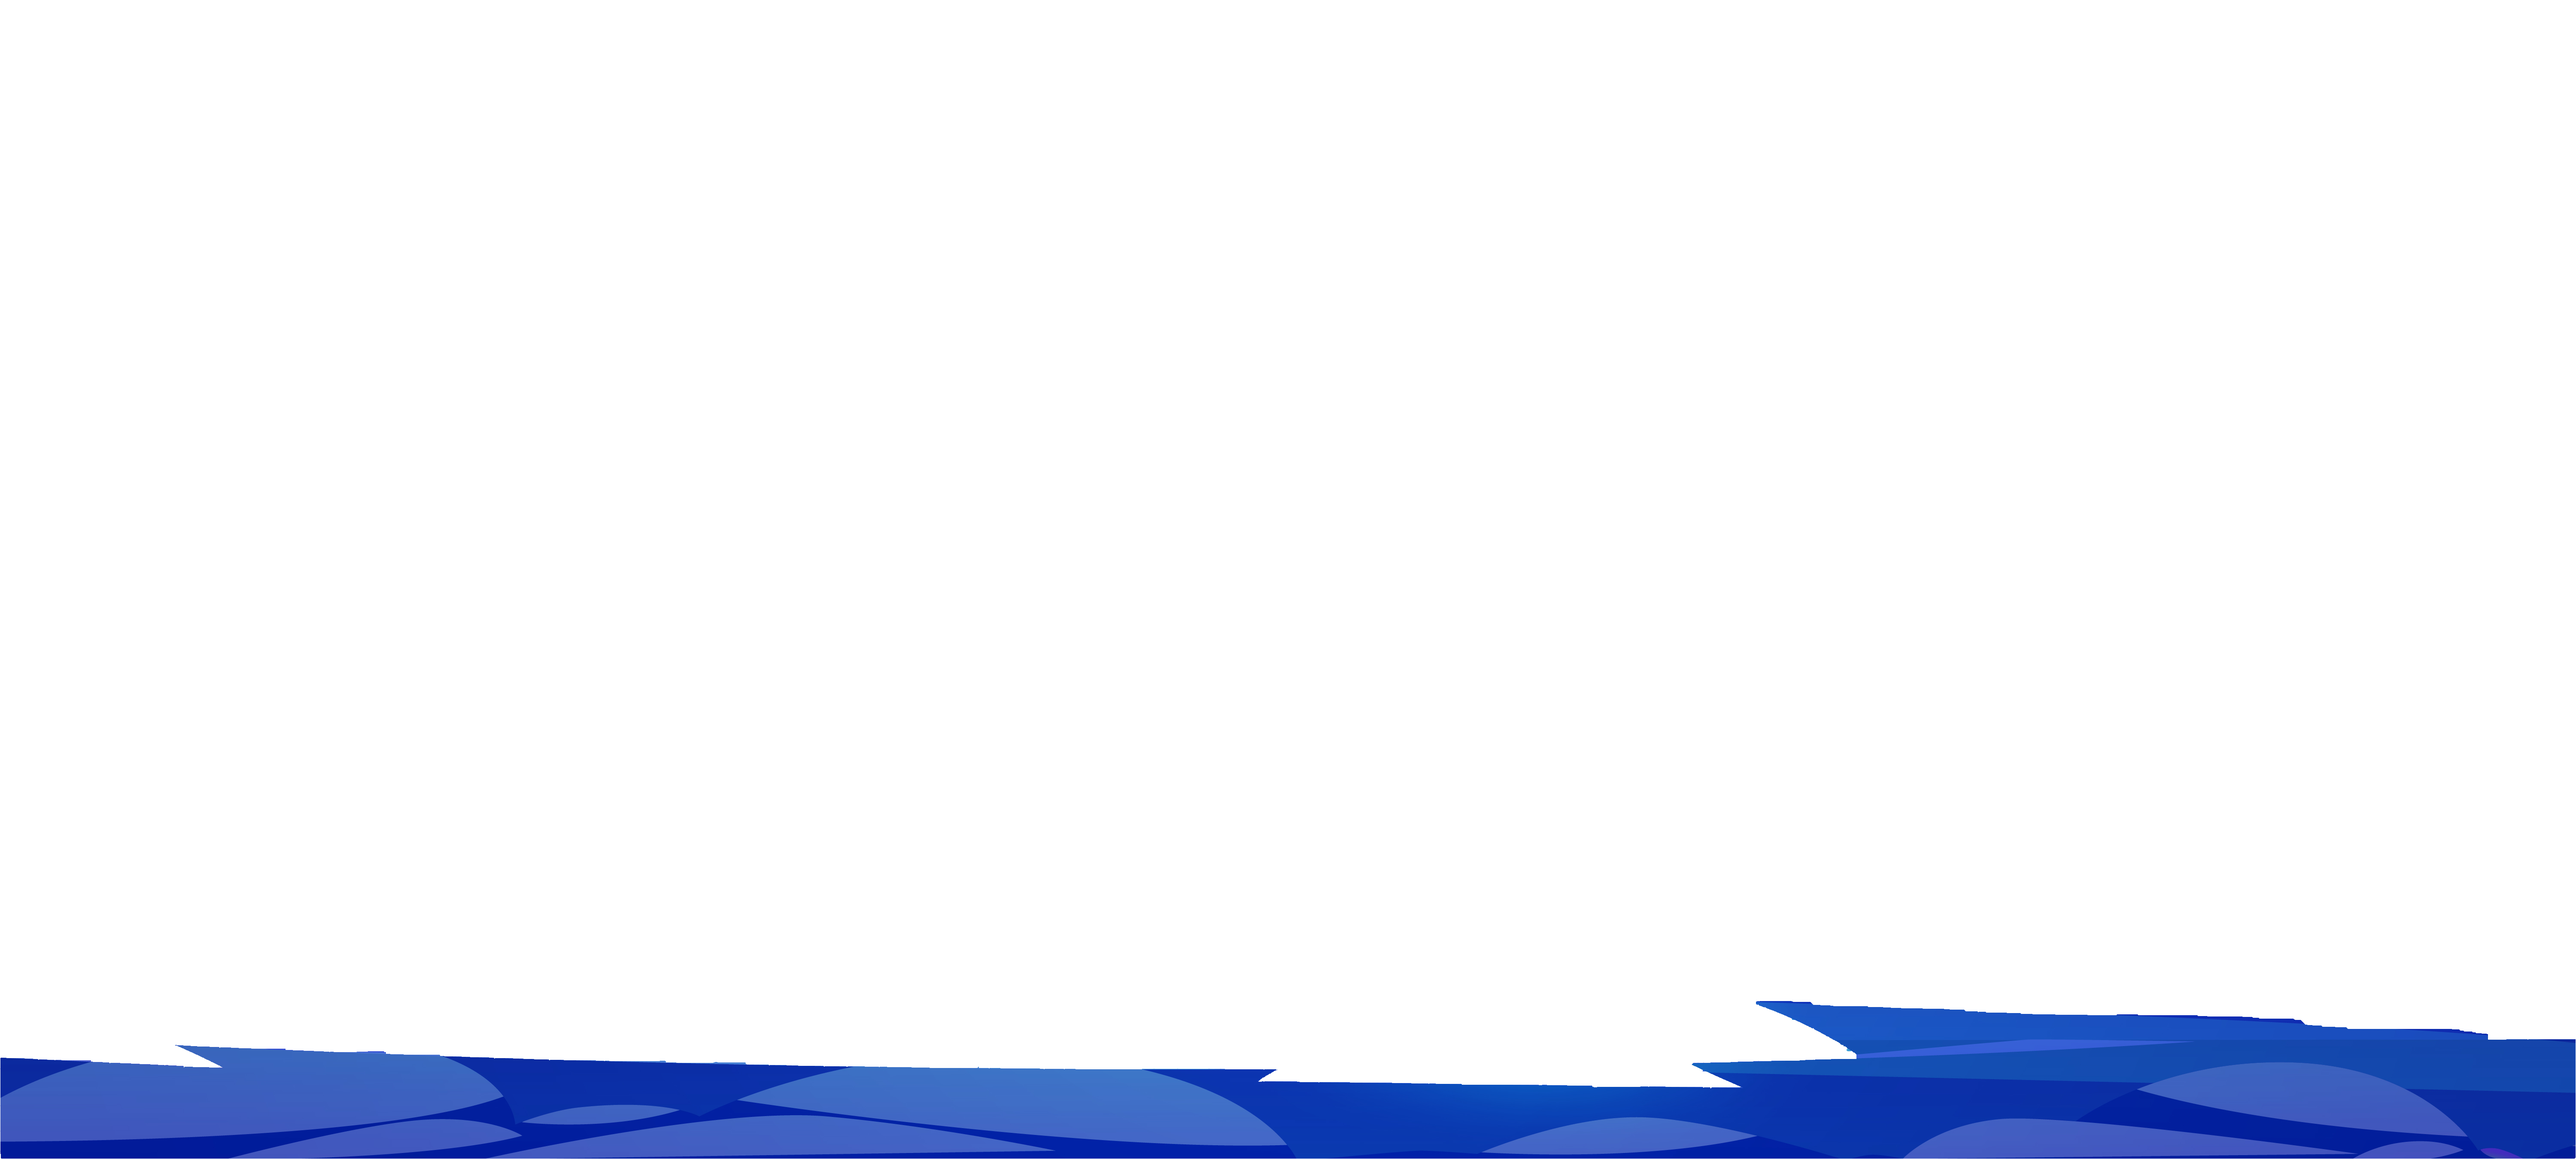
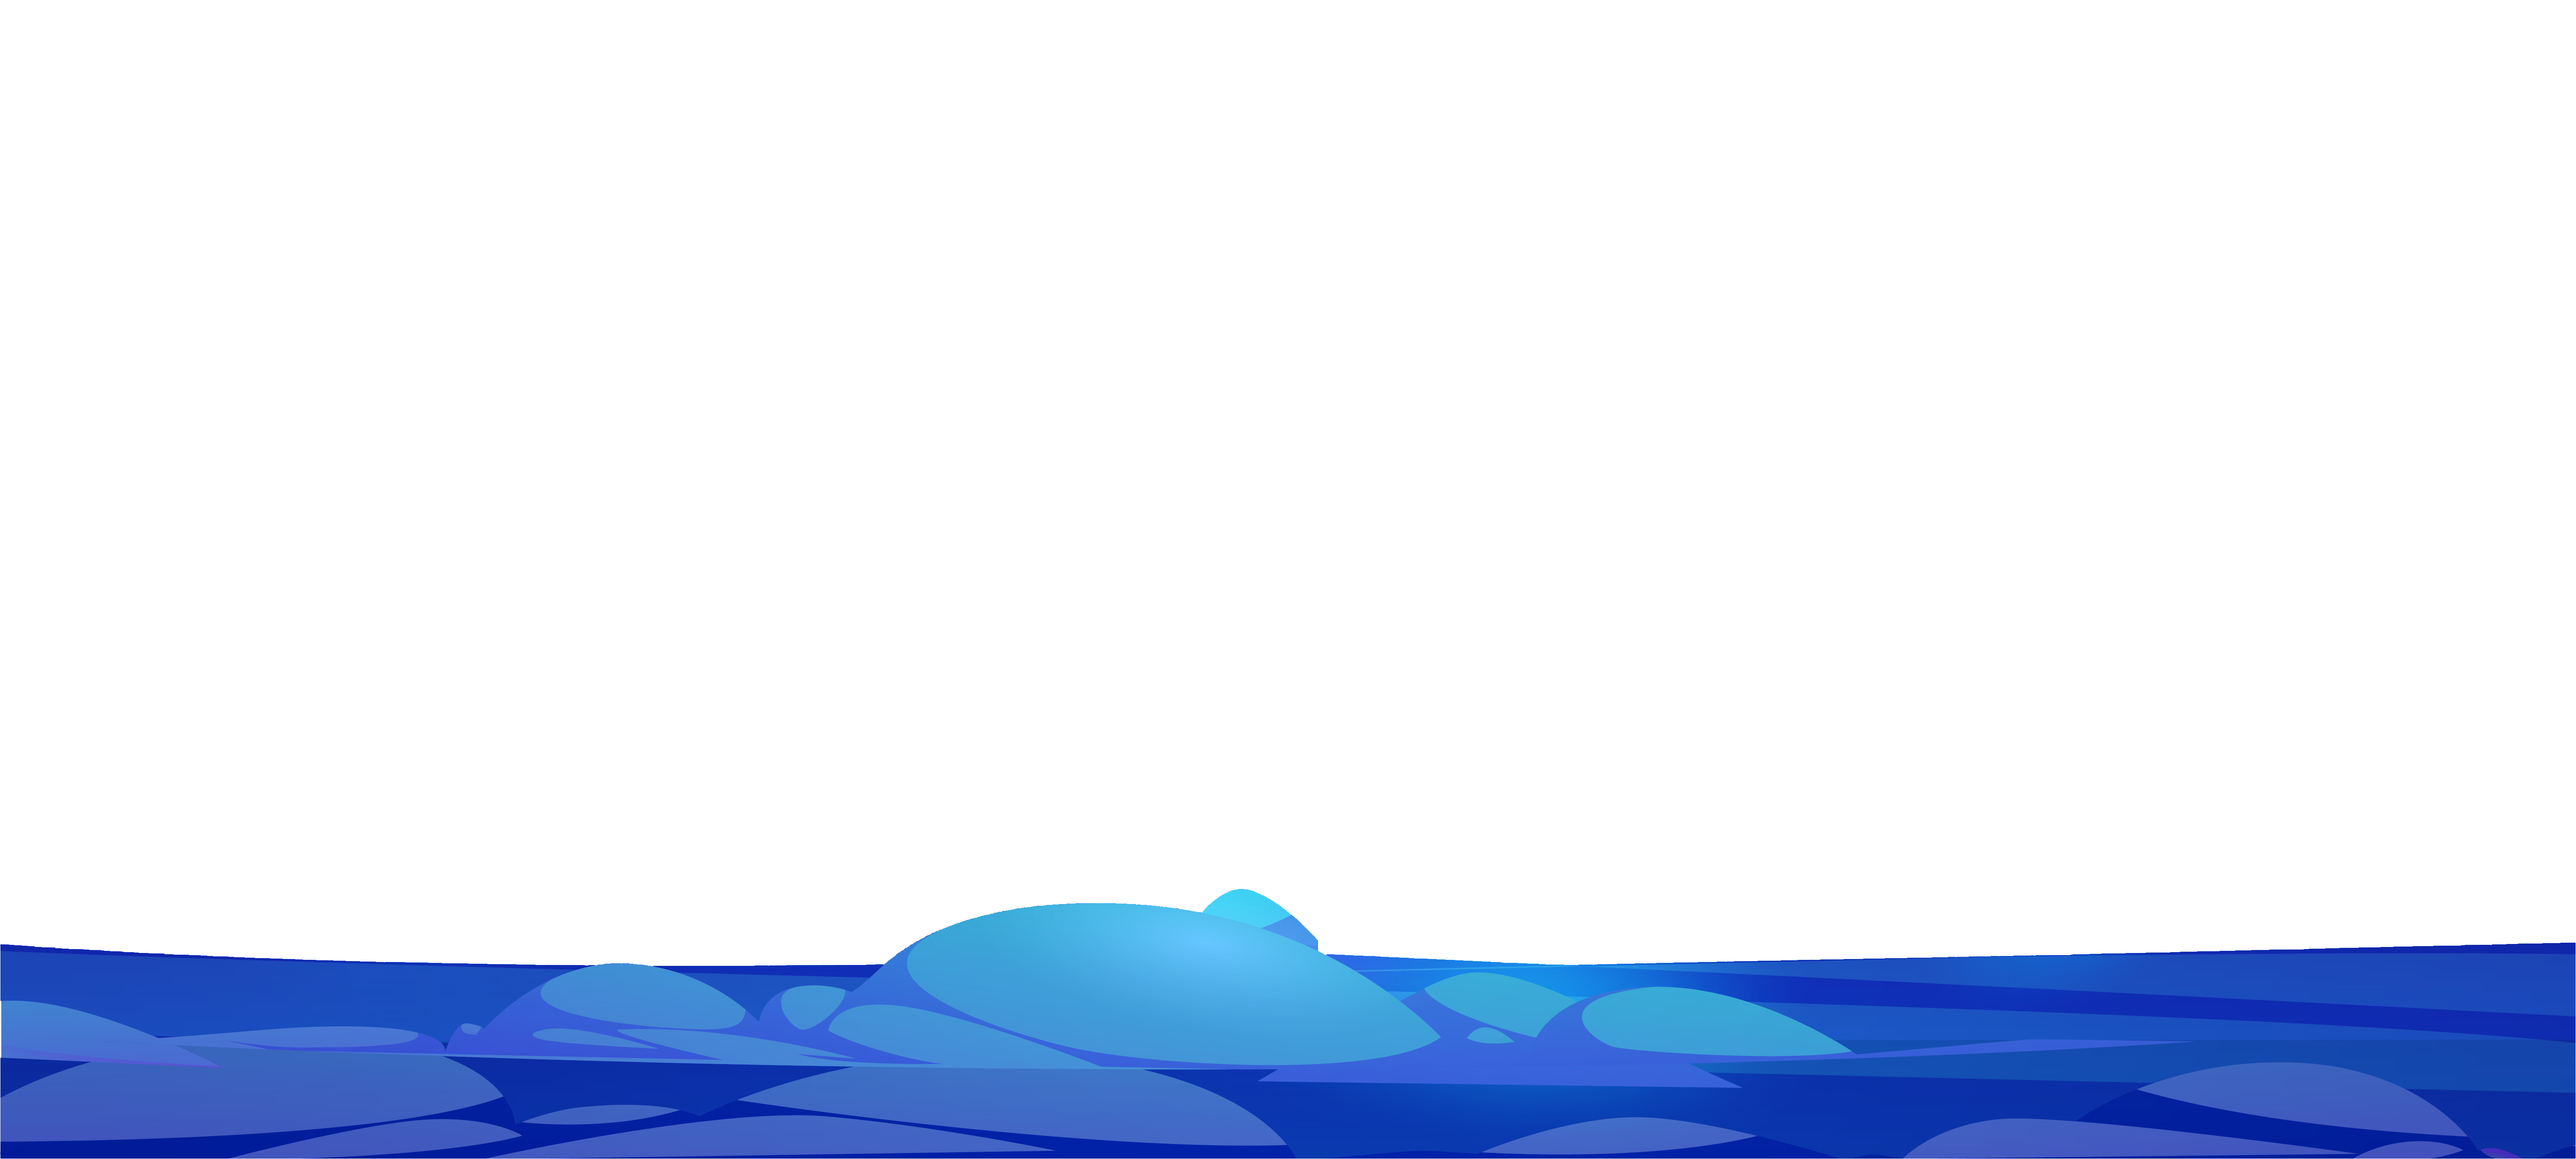
Fix parallax images

Changed region(s): [[0.0, 0.7467, 1.0, 0.9644]]

diff --git a/src/components/Contact.jsx b/src/components/Contact.jsx
@@ -12,6 +12,7 @@ export const Contact = () => {
                         type="text" 
                         name='full_name'
                         id='full_name'
+                        autoComplete="off"
                         className='border-2 border-gray-500 px-3 py-2 w-full focus:border-indigo-300 focus:outline-none'
                         />
                 </div>
@@ -21,6 +22,7 @@ export const Contact = () => {
                         type="text" 
                         name='subject'
                         id='subject'
+                        autoComplete="off"
                         className='border-2 border-gray-500 px-3 py-2 w-full focus:border-indigo-300 focus:outline-none'
                         />
                 </div>
@@ -30,6 +32,7 @@ export const Contact = () => {
                         type="text" 
                         name='email'
                         id='email'
+                        autoComplete="off"
                         className='border-2 border-gray-500 text-white px-3 py-2 w-full focus:border-indigo-300 focus:outline-none'
                         />
                 </div>

diff --git a/src/components/Hero.jsx b/src/components/Hero.jsx
@@ -17,15 +17,14 @@ const Hero = ({ scrollPosition }) => {
         background: {
             transform: `translateY(${scrollPosition * 0.1}px) translateZ(-60px) scale(${backgroundScale})`,
         },
-        bottom: {
-            //transform: `translateY(${scrollPosition * 1}px) translateZ(0px) scale(1)`,
-            zIndex: 2
-        },
         upperleft: {
             transform: `translateY(${scrollPosition * 0.7}px) translateZ(-20px) scale(3)`,
         },
         leftcenter: {
             transform: `translateY(${scrollPosition * 0.05}px) translateZ(-20px) scale(3)`
+        },
+        rightcenter: {
+            transform: `translateY(${scrollPosition * 0.1}px) translateZ(-40px) scale(5)`
         },
         upperright: {
             transform: `translateY(${scrollPosition * 0.5}px) translateZ(-10px) scale(2)`

diff --git a/src/components/Plane.jsx b/src/components/Plane.jsx
@@ -45,7 +45,7 @@ function Model() {
 
     // update if in a future the airplane is gonna move along with scroll
     const distance = (size * 1.8) / scale;
-    camera.position.set(0, 0, distance);
+    camera.position.set(0.1, 0, distance);
     camera.lookAt(0, 0, 0);
 
     actions['Flying'].play();

diff --git a/tailwind.config.js b/tailwind.config.js
@@ -1,0 +1,11 @@
+module.exports = {
+  theme: {
+    extend: {
+      colors: {
+        coral: '#A54DBB',
+        dodger: '#12304eff',
+        cloud: '#A54DBB'
+      },
+    },
+  },
+};
